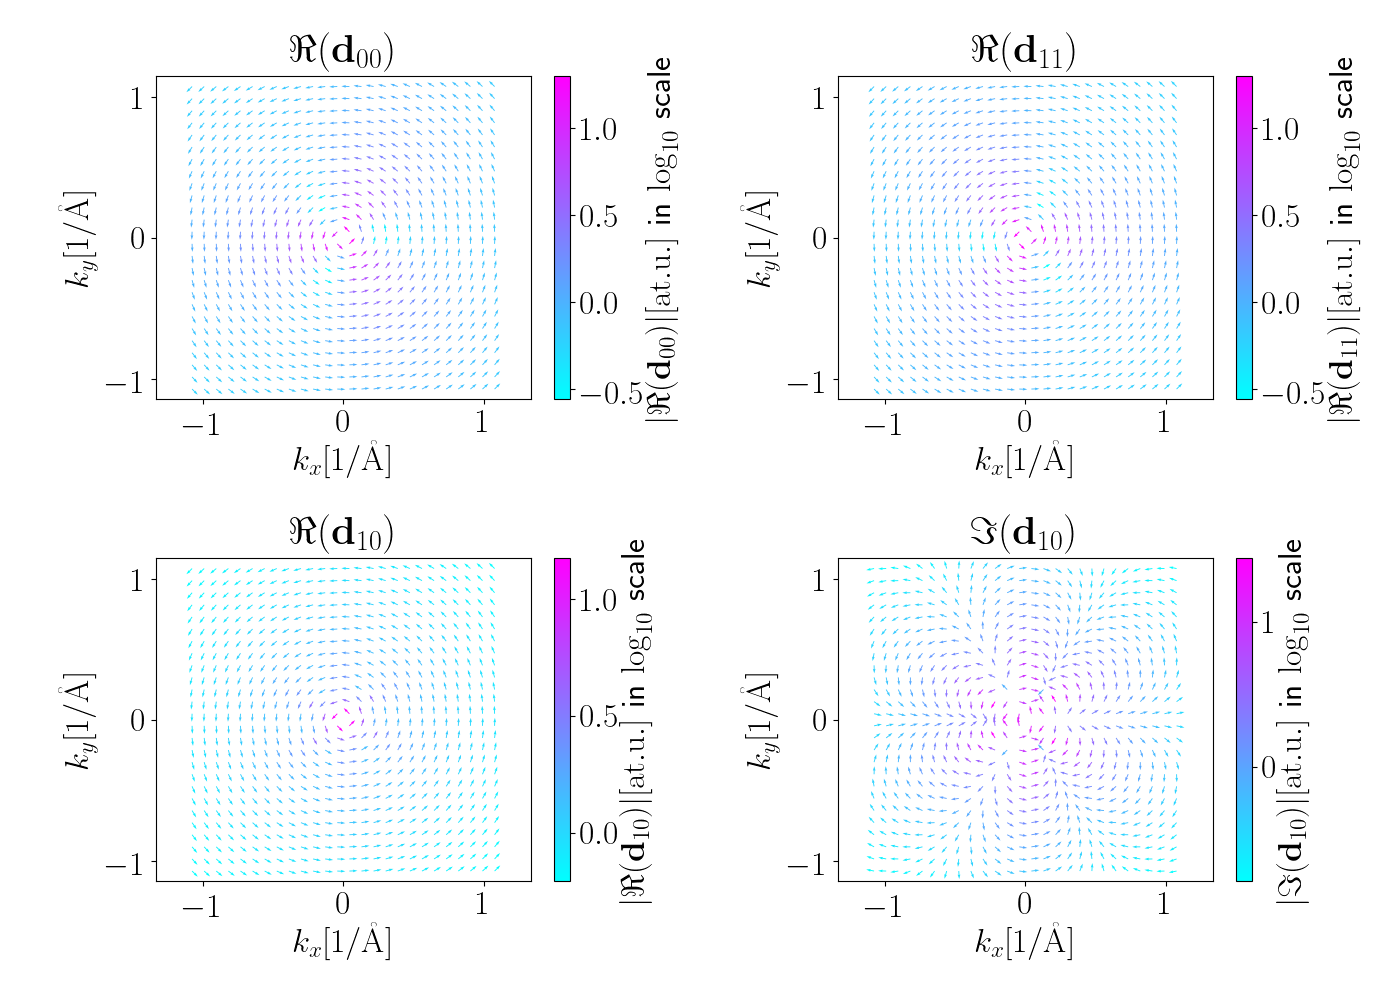
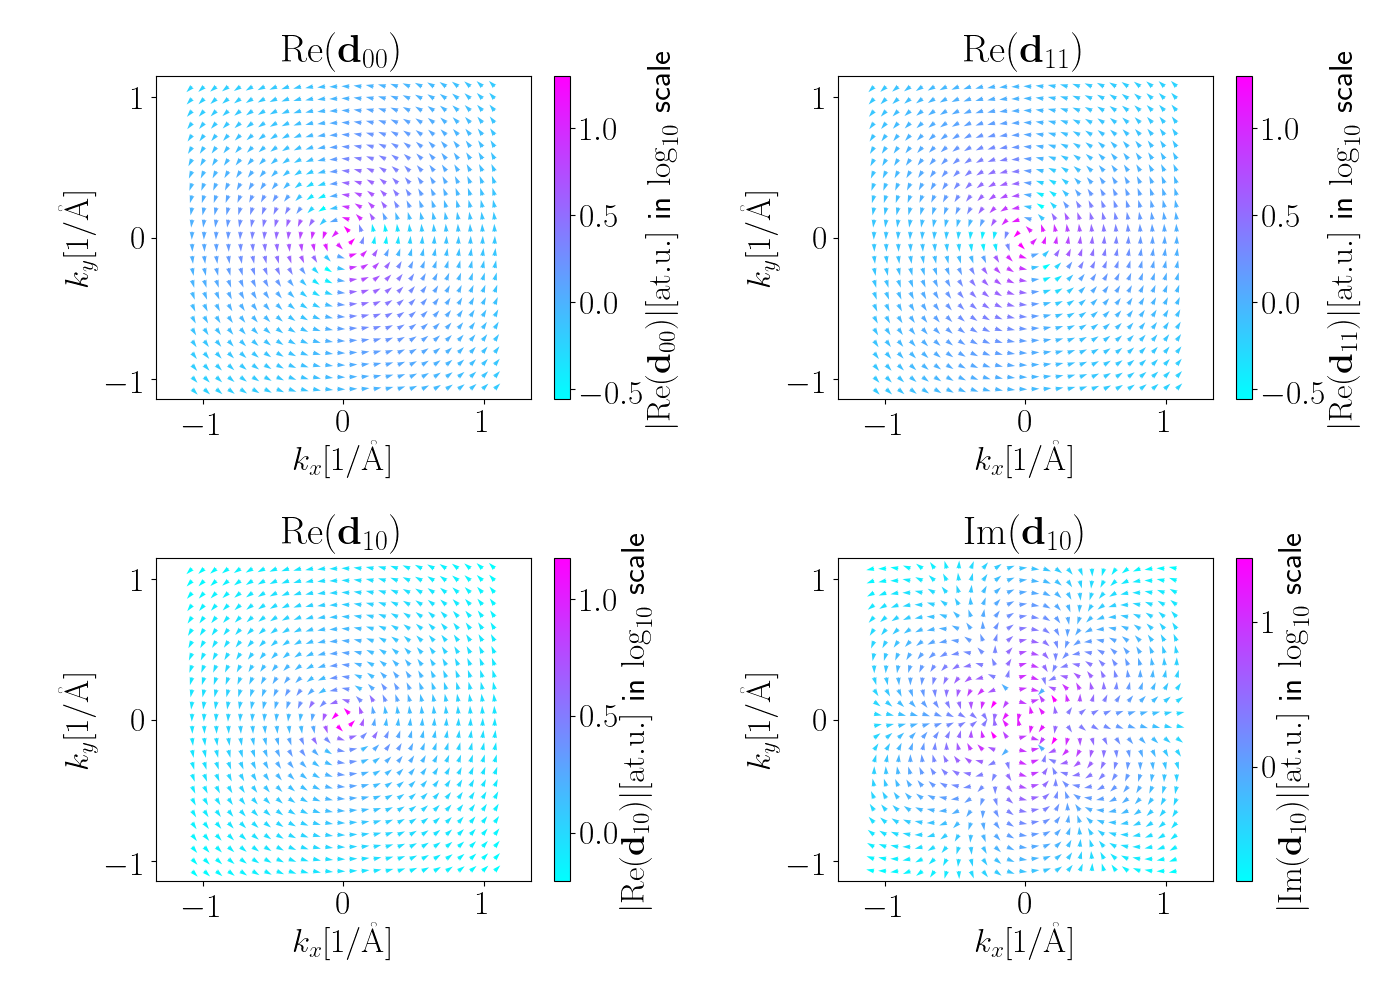
Some small changes regarding the gauge.

diff --git a/sbe/dipole/symbolic_dipole.py b/sbe/dipole/symbolic_dipole.py
@@ -263,8 +263,8 @@ class SymbolicDipole():
 
         valence = ax[0, 0].quiver(kx, ky,
                                   Axe_rn[vidx, vidx], Aye_rn[vidx, vidx],
-                                  valence_c, angles='xy', cmap='cool')
-        current_name = r"$\Re(\mathbf{d}_{" + str(vname) + str(vname) + "})$"
+                                  valence_c, angles='xy', cmap='cool', width=0.007)
+        current_name = r"$\mathrm{Re}(\mathbf{d}_{" + str(vname) + str(vname) + "})$"
         current_abs_name = r'$|$' + current_name + r'$|$'
         ax[0, 0].set_title(current_name)
         ax[0, 0].axis('equal')
@@ -274,8 +274,8 @@ class SymbolicDipole():
 
         conduct = ax[0, 1].quiver(kx, ky,
                                   Axe_rn[cidx, cidx], Aye_rn[cidx, cidx],
-                                  conduct_c, angles='xy', cmap='cool')
-        current_name = r"$\Re(\mathbf{d}_{" + str(cname) + str(cname) + "})$"
+                                  conduct_c, angles='xy', cmap='cool', width=0.007)
+        current_name = r"$\mathrm{Re}(\mathbf{d}_{" + str(cname) + str(cname) + "})$"
         current_abs_name = r'$|$' + current_name + r'$|$'
         ax[0, 1].set_title(current_name)
         ax[0, 1].axis('equal')
@@ -285,8 +285,8 @@ class SymbolicDipole():
 
         dipreal = ax[1, 0].quiver(kx, ky,
                                   Axe_rn[cidx, vidx], Aye_rn[cidx, vidx],
-                                  condval_c_r, angles='xy', cmap='cool')
-        current_name = r"$\Re(\mathbf{d}_{" + str(cname) + str(vname) + "})$"
+                                  condval_c_r, angles='xy', cmap='cool', width=0.007)
+        current_name = r"$\mathrm{Re}(\mathbf{d}_{" + str(cname) + str(vname) + "})$"
         current_abs_name = r'$|$' + current_name + r'$|$'
         ax[1, 0].set_title(current_name)
         ax[1, 0].axis('equal')
@@ -296,8 +296,8 @@ class SymbolicDipole():
 
         dipimag = ax[1, 1].quiver(kx, ky,
                                   Axe_in[cidx, vidx], Aye_in[cidx, vidx],
-                                  condval_c_i, angles='xy', cmap='cool')
-        current_name = r"$\Im(\mathbf{d}_{" + str(cname) + str(vname) + "})$"
+                                  condval_c_i, angles='xy', cmap='cool', width=0.007)
+        current_name = r"$\mathrm{Im}(\mathbf{d}_{" + str(cname) + str(vname) + "})$"
         current_abs_name = r'$|$' + current_name + r'$|$'
         ax[1, 1].set_title(current_name)
         ax[1, 1].axis('equal')
